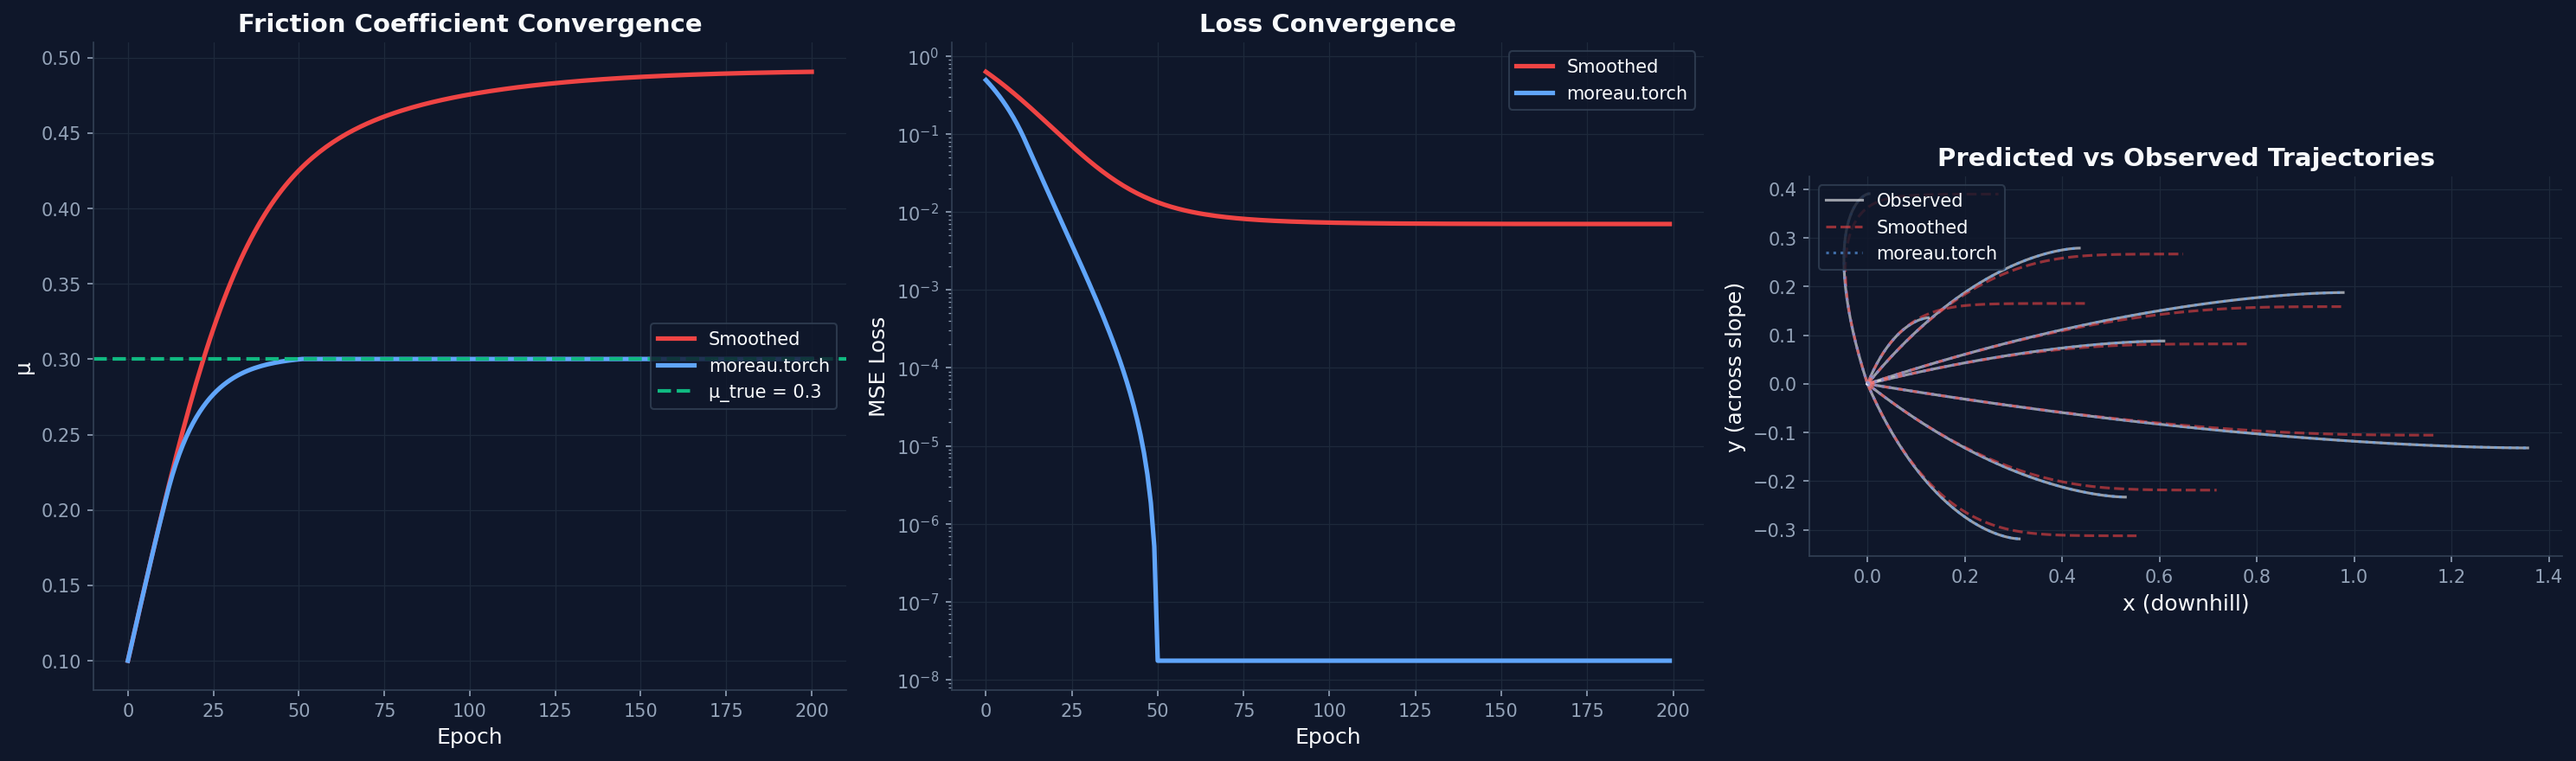
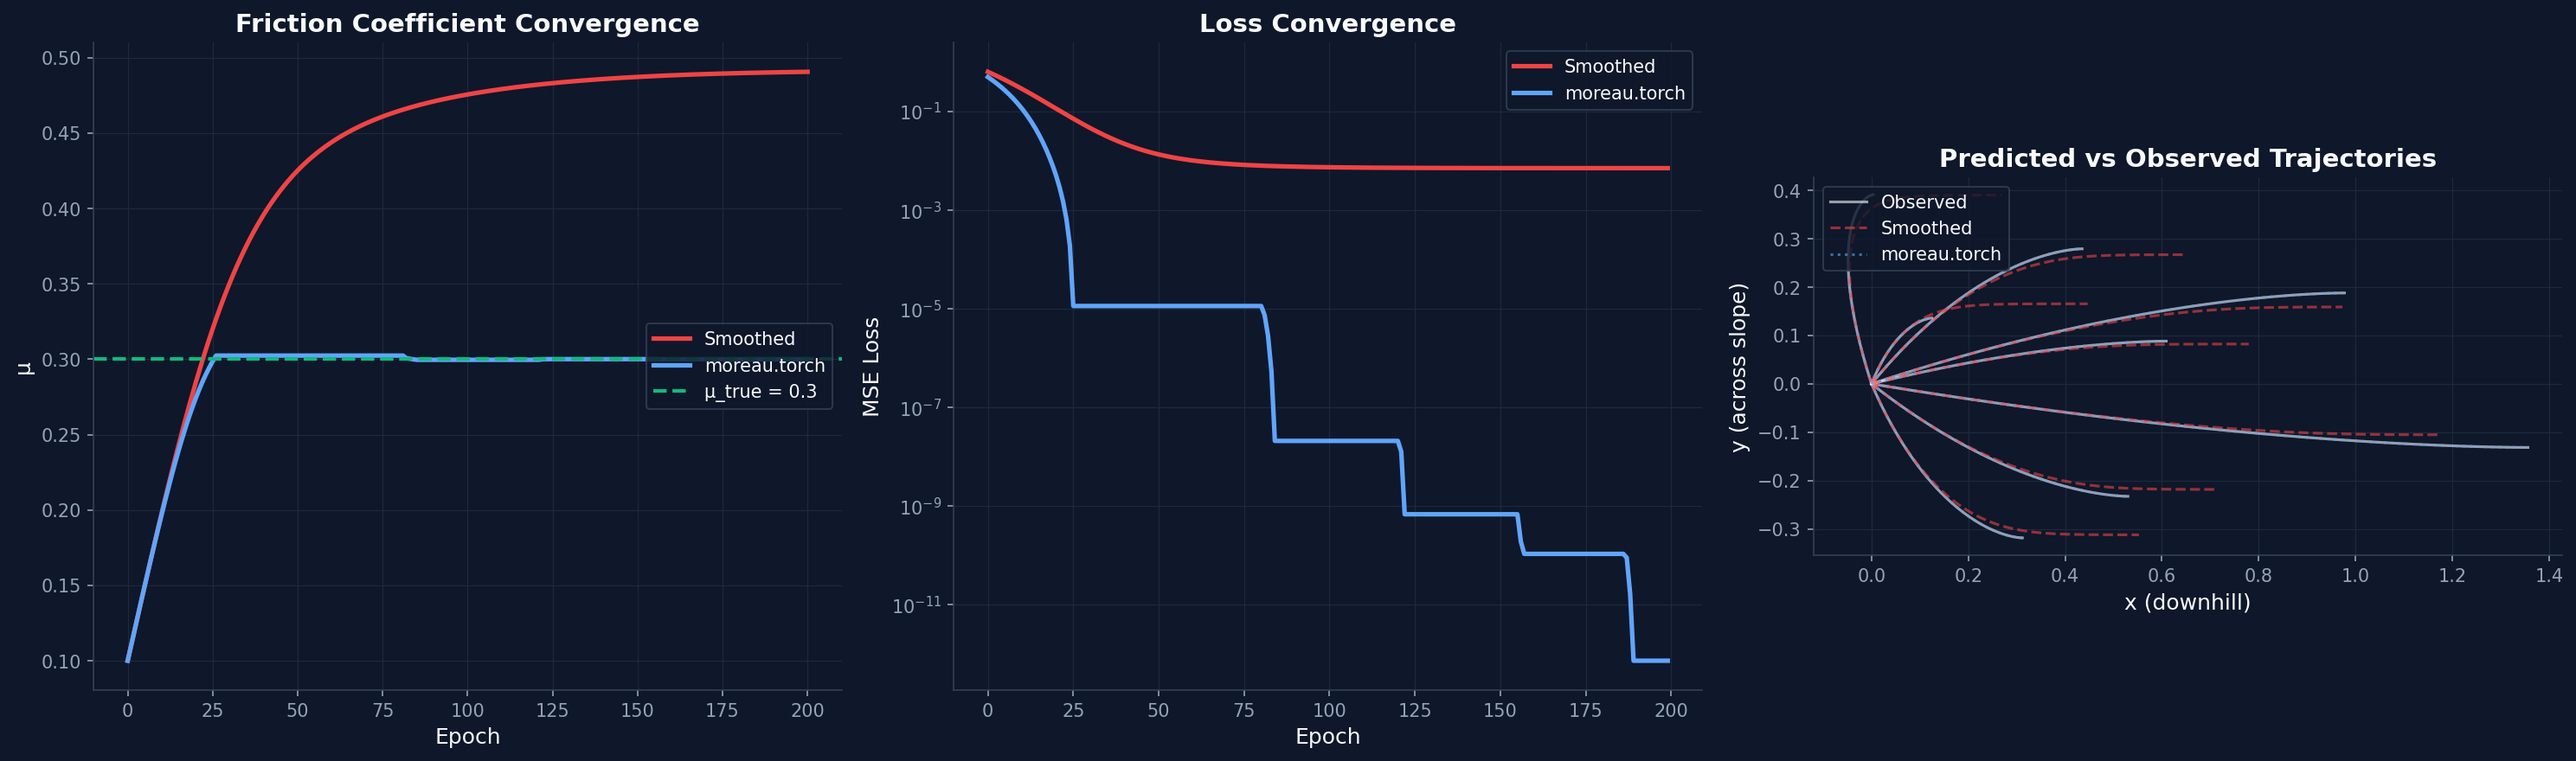
Update torch notebooks to stateless 4-arg solve API, use active-set for portfolio
moreau v0.3.0 changed moreau.torch.Solver to require solve(P, A, q, b)
instead of the old setup(P, A) + solve(q, b) pattern. Portfolio torch
cells switch from IPM to active-set (n=200 QP, good fit).

diff --git a/scripts/gen_contact_notebook.py b/scripts/gen_contact_notebook.py
@@ -290,10 +290,8 @@ torch_solver = TorchSolver(
         ipm_settings=moreau.IPMSettings(direct_solve_method='qdldl'),
     ),
 )
-torch_solver.setup(
-    torch.tensor(P_vals, dtype=torch.float64),
-    torch.tensor(A_vals, dtype=torch.float64),
-)
+P_vals_t = torch.tensor(P_vals, dtype=torch.float64)
+A_vals_t = torch.tensor(A_vals, dtype=torch.float64)
 
 
 def simulate_moreau(mu_param, v_inits_t, T_sim):
@@ -311,7 +309,7 @@ def simulate_moreau(mu_param, v_inits_t, T_sim):
         forces = []
         for i in range(n):
             q_i = h * v_free[i]
-            sol_i = torch_solver.solve(q_i, b)
+            sol_i = torch_solver.solve(P_vals_t, A_vals_t, q_i, b)
             forces.append(sol_i.x)
         f = torch.stack(forces)
 
